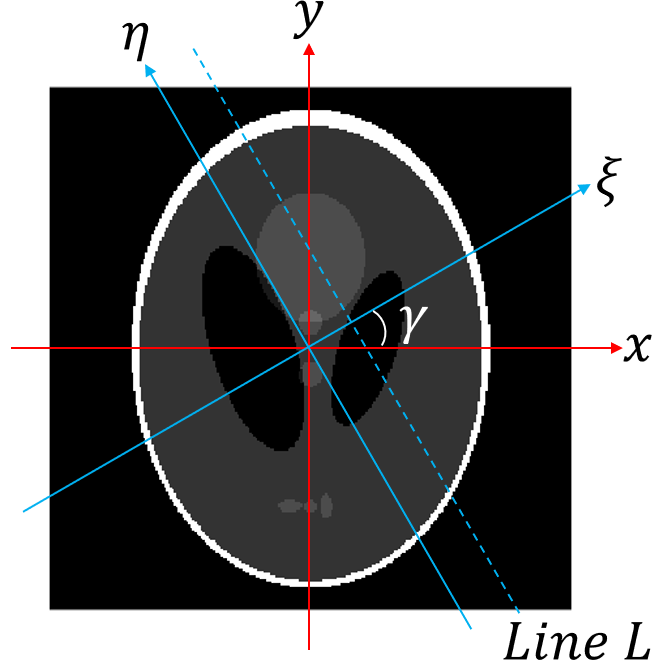
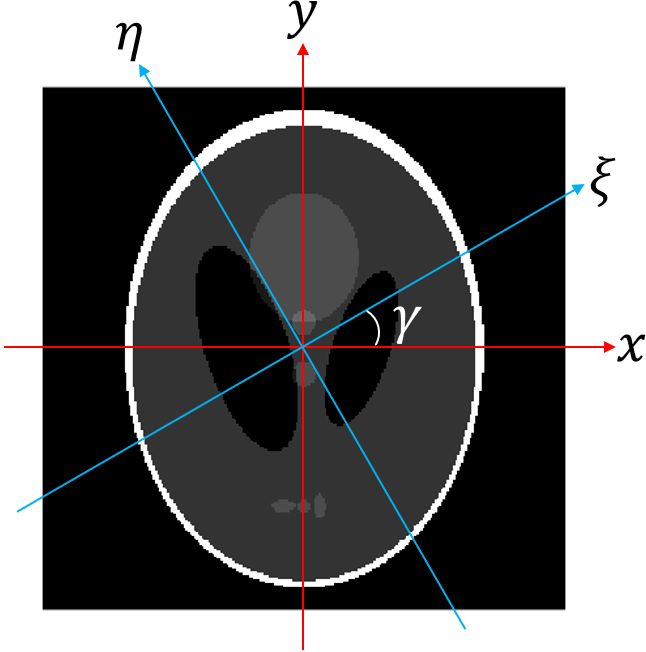
CT_5 update

diff --git a/_posts/2025-07-03-CT_5.md b/_posts/2025-07-03-CT_5.md
@@ -79,47 +79,170 @@ To understand how the Radon transform builds a sinogram, the key is to think in 
 This is shown below. 
 
 {% include start-box.html class="math-box"%}
- {% include start-box.html class="math-box-inner" font_size="1.0em" %}
+ {% include start-box.html class="math-box-inner" font_size="0.8em" %}
   {% include start-side-by-side.html
   image_src="../images/2025-07-03-CT_5/image-20250707123337628.png"
-  image_alt="Fig.2.2 Object with a fixed, standard (x, y) coordinate system."
-  image_width="30%"
+  image_alt="Fig.2.2 Object with a fixed, standard $(x, y)$ coordinate system."
+  image_width="40%"
   margin_top = "-4em"
   margin_bottom = "-4.5em"
   %}
   Imagine the object we want to scan (the patient's cross-section) exists in a fixed, standard (x, y) coordinate system. 
-  The value at any point is given by $f(x,y)$.
+  The value at any point is given by its LAC, $\mu(x,y)$.
   {% include end-side-by-side.html %}
  {% include end-box.html %}
 
 
- {% include start-box.html class="math-box-inner" font_size="1.0em" %}
+ {% include start-box.html class="math-box-inner" font_size="0.8em" %}
   {% include start-side-by-side.html
   image_src="../images/2025-07-03-CT_5/image-20250707124736150.png"
   image_alt="Fig.2.3 Object with a rotational $(\xi, \eta)$ coordinate system."
-  image_width="30%"
+  image_width="40%"
   margin_top = "-4em"
   margin_bottom = "-4.5em"
   %}
   Let's introduce our second coordinate system, $(\xi, \eta)$. 
   The crucial part is that this system rotates with the X-ray source and detector. 
-  The angle of this rotation, relative to the fixed $(x, y)$ system, is $\gamma$.
+  The angle of this rotation, relative to the fixed $(x, y)$ system, is $\gamma$ ($\in [0, 2\pi]$).
   {% include end-side-by-side.html %}
  {% include end-box.html %}
 
- {% include start-box.html class="math-box-inner" font_size="1.0em" %}
+ {% include start-box.html class="math-box-inner" font_size="0.8em" %}
   {% include start-side-by-side.html
   image_src="../images/2025-07-03-CT_5/image-20250707145613369.png"
   image_alt="Fig.2.4 Object with a rotational $(\xi, \eta)$ coordinate system and $i-th$ detector value at angle $\gamma$."
-  image_width="30%"
+  image_width="40%"
   margin_top = "-4em"
   margin_bottom = "-4.5em"
   %}
-  The Radon transform mathematically simulates what a single detector "sees". For a given projection angle $\gamma$:
-  * It defines a straight line, L, through the object. This line is parallel to the $\eta$-axis and is offset from the center by a distance $\xi$. Think of this line as the path of a single X-ray beam.
+  The Radon transform mathematically simulates what a single detector "sees". For a given projection angle $\gamma$ ($\in [0, 2\pi]$):
+  * It defines a straight line, L, through the object. This line is parallel to the $\eta$-axis and is offset from the center by a distance $\xi_i$. Think of this line as the path of a single X-ray beam.
+  * It then sums up (integrates) all the object's pixel values ($\mu(x,y)$) that lie directly on this line L.
+  * This sum becomes a single data point in our sinogram, $p(\xi_i, \gamma)$,corresponding to the detector at position $\xi_i$.
+  
+  This entire process is repeated for all possible lines (all $\xi$ values) across the object to create one full row of the sinogram for that specific angle $\gamma$. In essence, the Radon Transform is the mathematical way of describing how an object casts an "X-ray shadow" from a specific angle.
+  To make these calculation simple, we defined new coordinate $(\xi, \eta)$.
   {% include end-side-by-side.html %}
  {% include end-box.html %}
-
-
-
 {% include end-box.html %}
+
+## 2-2) Mathematical equation of Radon transform
+So, how do we practically calculate $p(\xi, \gamma)$, the line integral of $\mu(x,y)$?<br> 
+The mathematical definition is:<br>
+
+<div class="math-box" markdown="1">
+<center>$$p_{\gamma}(\xi) = p(\xi, \gamma) = \int_{\mathbf{r} \in L(x,y)} \mu(\mathbf{r}) \, d\mathbf{r} \tag{2.1}$$</center>
+</div>
+
+$p_{\gamma}(\xi)$ is called 2D Radon transform.
+
+This means we need to sum up all the pixel values along a specific line L.
+Trying to do this directly in the fixed $(x, y)$ coordinate system is a nightmare. 
+For every single projection angle $\gamma$, we would have to recalculate the complex equation of each line $L$ and figure out which pixels fall on it. 
+This is computationally inefficient and complex.
+
+There's a much more elegant solution: perform the calculation in the rotated $(\xi, \eta)$ coordinate system.
+Why is this better? Because in the rotated system, the line $L$ is no longer a complicated, angled line. 
+For any given projection angle $\gamma$, the line L is simply defined by $\xi = \text{constant}$. 
+This massively simplifies the integration.
+To make this switch, we first need a way to convert any point from the $(x, y)$ system to the $(\xi, \eta)$ system. 
+We can do this using the following linear transformation.
+
+{% include start-box.html class="math-box"%}
+ {% include start-side-by-side.html
+ image_src="../images/2025-07-03-CT_5/image-20250707155631610.png"
+ image_alt="Fig.2.5 Object with a fixed, standard $(x, y)$ coordinate system."
+ image_width="30%"
+ margin_top = "-3em"
+ margin_bottom = "-3em"
+ %}
+ <center>$$\begin{bmatrix} x \\ y \end{bmatrix} = \begin{bmatrix} \cos \gamma & -\sin \gamma \\ \sin \gamma & \cos \gamma \end{bmatrix} \begin{bmatrix} \xi \\ \eta \end{bmatrix} = \begin {bmatrix} \xi \cos \gamma  -\eta \sin \gamma \\ \xi \sin \gamma + \eta \cos \gamma \end{bmatrix} \tag{2.2}$$</center> 
+ {% include end-side-by-side.html %}
+{% include end-box.html %}
+
+Now that we have this bridge between the two coordinate systems, we are finally ready to rewrite our original line integral.
+The Radon transform, $p(\xi, \gamma)$, can now be expressed in the much more convenient $(\xi,\eta)$ coordinates as follows:
+
+<div class="math-box" markdown="1">
+<center>$$\begin{split}
+p(\xi, \gamma) &= p_{\gamma}(\xi) \\
+&= \int_{\mathbf{r} \in L(x,y)} \mu(\mathbf{r}) d\mathbf{r}\\
+&= \int \mu(\xi \cos \gamma - \eta \sin \gamma, \xi \sin \gamma + \eta \cos \gamma) d\eta\
+\end{split} \tag{2.3}$$</center>
+</div>
+
+## 2-3) Practical Radon transform
+In this section, we will link the mathematical model of the Radon transform, which we previously examined, to the number of X-ray photons.
+First, let's recall from [4. Probability of detection] that the expected number of incident photons generated is $N_0$. 
+
+From this, we derived that the expected number of photons that transmit through the object is:
+
+<div class="math-box" markdown="1">
+<center>$$\text{Number of transmitted photons, }\lambda = \int N_0 S_0(E) e^{-\int \mu_a(\mathbf{r}, E) d\mathbf{r}} dE \tag{2.4}$$</center>
+</div>
+
+This integral is still complex. 
+To simplify it and connect it directly to the line integral of the Radon transform, we will transform this equation using the Mean Value Theorem.
+
+{% include start-box.html class="math-box"%}
+$$\begin{split}
+\lambda &= \int_{E_1}^{E_2} N_0 S_0(E) e^{-\int \mu_a(\mathbf{r}, E) d\mathbf{r}} dE \\
+&= e^{-\int \mu_a(\mathbf{r}, \hat{E}) d\mathbf{r}} \int_{E_1}^{E_2} N_0 S_0(E) dE \\
+&= e^{-\int \mu_a(\mathbf{r}, \hat{E}) d\mathbf{r}} \lambda_0 \quad \text{where, } \lambda_0 = N_0: \text{the expected number of incident photons}
+\end{split} \tag{2.5}$$
+
+ {% include start-box.html class="math-box-inner" font_size="0.8em" %}
+ [Mean value theorem]<br>
+ This theorem states that for an integral involving the product of two functions, $f(x)$ and $g(x)$, we can effectively pull one function out of the integral by evaluating it at a special "mean value" point, $\hat{x}$.<br><br>
+ More formally, for some $\hat{x}$ in the interval $(x_1, x_2)$, the following relationship is true:<br>
+ <center>$$ \int_{x_1}^{x_2} f(x)g(x)dx = f(\hat{x})\int_{x_1}^{x_2} g(x) dx $$</center>
+ {% include end-box.html %}
+{% include end-box.html %}
+
+Here, $E_1$ and $E_2$ are the minimum and maximum photon energies, and $\lambda_0$ is equal to $N_0$, the expected number of incident X-ray photons.
+By taking the natural logarithm and rearranging the equation, we can isolate the term we are truly interested in:
+
+{% include start-box.html class="math-box"%}
+<center>$$-\ln \left( \frac{\lambda}{\lambda_0} \right) = \int \mu_a(\mathbf{r}, \hat{E}) d\mathbf{r} \tag{2.5}$$</center>
+ {% include start-box.html class="math-box-inner" font_size="0.8em" %}
+ This equation is the very foundation of CT reconstruction:
+ * The left side is a value we can measure. It's calculated from the initial number of photons ($\lambda_0$) and the number of photons that our detector measures ($\lambda$).
+ * The right side is the value we want to find. It is precisely the Radon transform—the line integral of the effective attenuation coefficient—which is the projection data needed to build a sinogram.
+ {% include end-box.html %}
+{% include end-box.html %}
+
+In other words, the integral of the attenuation coefficient over a specific line path r through the object, which is the Radon transform, is equal to the negative natural logarithm of the ratio of transmitted photons to incident photons.
+
+However, the equation so far is for an ideal case. 
+In reality, we must account for quantum noise, $\epsilon$, in the number of transmitted photons, $\lambda$.
+
+<div class="math-box" markdown="1">
+<center>$$\text{Practical Radon transform}: -\ln \left( \frac{\lambda + \epsilon}{\lambda_0} \right) = \int \mu_a(\mathbf{r}, \hat{E}) d\mathbf{r} \tag{2.6}$$</center>
+</div>
+
+Up to this point, we have successfully linked the incident photons to the Radon transform, which represents attenuation. 
+However, there is still one part that needs more explanation: the effective energy, $\hat{E}$, which is assumed to lie between the minimum and maximum photon energies. 
+This $\hat{E}$ affects the Radon transform in the following way. 
+
+When we calculate a single projection $p_i$, the formula looks like this:
+
+<div class="math-box" markdown="1">
+<center>$$p_i = -\ln \frac{\lambda_i + \epsilon_i}{\lambda_0} \approx \int \mu_a (\mathbf{r}, \hat{E}_i) \, d\mathbf{r} \tag{2.7}$$</center>
+</div>
+
+The core problem is that the effective energy $\hat{E}_i$ is not a constant. 
+It changes depending on the path the X-ray beam takes through the object. 
+If a path passes through dense material (like bone), the attenuation is high, and $\hat{E}_i$ will be different than for a path through soft tissue.
+Why does $\hat{E}_i$ change? 
+This is due to a phenomenon called beam hardening.
+
+* A polychromatic X-ray beam contains photons with a wide range of energies.
+* Low-energy ("soft") photons are much more likely to be absorbed by the object.
+* High-energy ("hard") photons are more likely to pass through.
+
+As a result, the beam that emerges from the object is "harder" on average—its average energy has increased because the soft photons have been filtered out. 
+The more material the beam passes through, the more pronounced this effect becomes.
+
+This inconsistency—where our model assumes a single $\hat{E}$ but reality provides a path-dependent one—leads to errors during image reconstruction. 
+These errors manifest as characteristic artifacts that degrade image quality. 
+This entire process is known as the **beam-hardening effect**.
